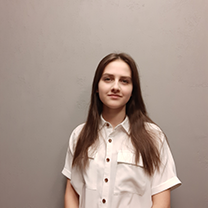
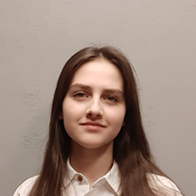
team members update, tooltips added

diff --git a/index.html b/index.html
@@ -286,53 +286,62 @@
             </div>
         </div>
         <div class="row justify-content-center mb-lg-12">
-            <div class="col-lg-3 col-md-5 col-6 mb-10" data-aos="fade-down" data-aos-delay="250">
-                <img src="i/Kiryl_Bratukhin.png" alt="" class="img-fluid rounded-circle mb-6" width="150">
+            <div class="col-lg-2 col-md-5 col-6 mb-10" data-aos="fade-down" data-aos-delay="250">
+                <img src="i/Kiryl_Bratukhin.png" alt="" class="img-fluid rounded-circle mb-6" width="140">
                 <h5 class="mb-2">
                     Kiryl Bratukhin
                 </h5>
             </div>
-            <div class="col-lg-3 col-md-5 col-6 mb-10" data-aos="fade-down" data-aos-delay="400">
-                <img src="i/Julia_Wierzbicka.png"  alt="" class="img-fluid rounded-circle mb-6" width="150">
+            <div class="col-lg-2 col-md-5 col-6 mb-10" data-aos="fade-down" data-aos-delay="350">
+                <img src="i/Julia_Wierzbicka.png"  alt="" class="img-fluid rounded-circle mb-6" width="140">
                 <h5 class="mb-2">
                     Julia Wierzbicka
                 </h5>
             </div>
-            <div class="col-lg-3 col-md-5 col-6 mb-10" data-aos="fade-down" data-aos-delay="500">
-                <img src="i/Maja_Cubrzynska.png" alt="" class="img-fluid rounded-circle mb-6" width="150">
+            <div class="col-lg-2 col-md-5 col-6 mb-10" data-aos="fade-down" data-aos-delay="450">
+                <img src="i/Maja_Cubrzynska.png" alt="" class="img-fluid rounded-circle mb-6" width="140">
                 <h5 class="mb-2">
                     Maja Cubrzyńska
                 </h5>
             </div>
-            <div class="col-lg-3 col-md-5 col-6 mb-10" data-aos="fade-down" data-aos-delay="650">
-                <img src="i/Wojciech_Niemotko.png" alt="" class="img-fluid rounded-circle mb-6" width="150">
+            <div class="col-lg-2 col-md-5 col-6 mb-10" data-aos="fade-down" data-aos-delay="550">
+                <img src="i/Wojciech_Niemotko.png" alt="" class="img-fluid rounded-circle mb-6" width="140">
                 <h5 class="mb-2">
                     Wojciech Niemotko
                 </h5>
             </div>
-            <div class="col-lg-3 col-md-5 col-6 mb-10" data-aos="fade-down" data-aos-delay="750">
-                <img src="i/Kosma_Szczegielniak.png" alt="" class="img-fluid rounded-circle mb-6" width="150">
+            <div class="col-lg-2 col-md-5 col-6 mb-10" data-aos="fade-down" data-aos-delay="650">
+                <img src="i/Kosma_Szczegielniak.png" alt="" class="img-fluid rounded-circle mb-6" width="140">
                 <h5 class="mb-2">
                     Kosma Szczegielniak
                 </h5>
             </div>
-            <div class="col-lg-3 col-md-5 col-6 mb-10" data-aos="fade-down" data-aos-delay="900">
-                <img src="i/Emilia_Kapelko.png" alt="" class="img-fluid rounded-circle mb-6" width="150">
+            <div class="w-100 d-none d-lg-block"></div>
+            <div class="col-lg-2 col-md-5 col-6 mb-10" data-aos="fade-down" data-aos-delay="750">
+                <img src="i/Emilia_Kapelko.png" alt="" class="img-fluid rounded-circle mb-6" width="140">
                 <h5 class="mb-2">
                     Emilia Kapelko
                 </h5>
             </div>
-            <div class="col-lg-3 col-md-5 col-6 mb-10" data-aos="fade-down" data-aos-delay="1000">
-                <img src="i/Konrad_Kedzierski.png" alt="" class="img-fluid rounded-circle mb-6" width="150">
+            <div class="col-lg-2 col-md-5 col-6 mb-10" data-aos="fade-down" data-aos-delay="850">
+                <img src="i/Konrad_Kedzierski.png" alt="" class="img-fluid rounded-circle mb-6" width="140">
                 <h5 class="mb-2">
                     Konrad Kędzierski
                 </h5>
             </div>
-            <div class="col-lg-3 col-md-5 col-6 mb-10" data-aos="fade-down" data-aos-delay="1150">
-                <img src="i/Oliwia_Rozkosz.png" alt="" class="img-fluid rounded-circle mb-6" width="150">
+            <div class="col-lg-2 col-md-5 col-6 mb-10" data-aos="fade-down" data-aos-delay="950">
+                <img src="i/Oliwia_Rozkosz.png" alt="" class="img-fluid rounded-circle mb-6" width="140">
                 <h5 class="mb-2">
                     Oliwia Rozkosz
                 </h5>
+            </div>
+            <div class="col-lg-2 col-md-5 col-6 mb-10" data-aos="fade-down" data-aos-delay="1050">
+                <img src="i/Julia_Czosnek.png" alt="" class="img-fluid rounded-circle mb-6" width="140">
+                <span data-bs-toggle="tooltip" data-bs-placement="bottom" title="❤">
+                    <h5 class="mb-2">
+                        Julia Czosnek
+                    </h5>
+                </span>
             </div>
         </div>
     </div>
@@ -401,5 +410,13 @@
 
 <!-- Startup JS (Custom js for all blocks) - Remove ".min" if you want to edit a JS code -->
 <script src="js/scripts.min.js"></script>
+
+<!-- Tooltips -->
+<script>
+    var tooltipTriggerList = [].slice.call(document.querySelectorAll('[data-bs-toggle="tooltip"]'))
+    var tooltipList = tooltipTriggerList.map(function (tooltipTriggerEl) {
+    return new bootstrap.Tooltip(tooltipTriggerEl)
+    })
+</script>
 </body>
 </html>
